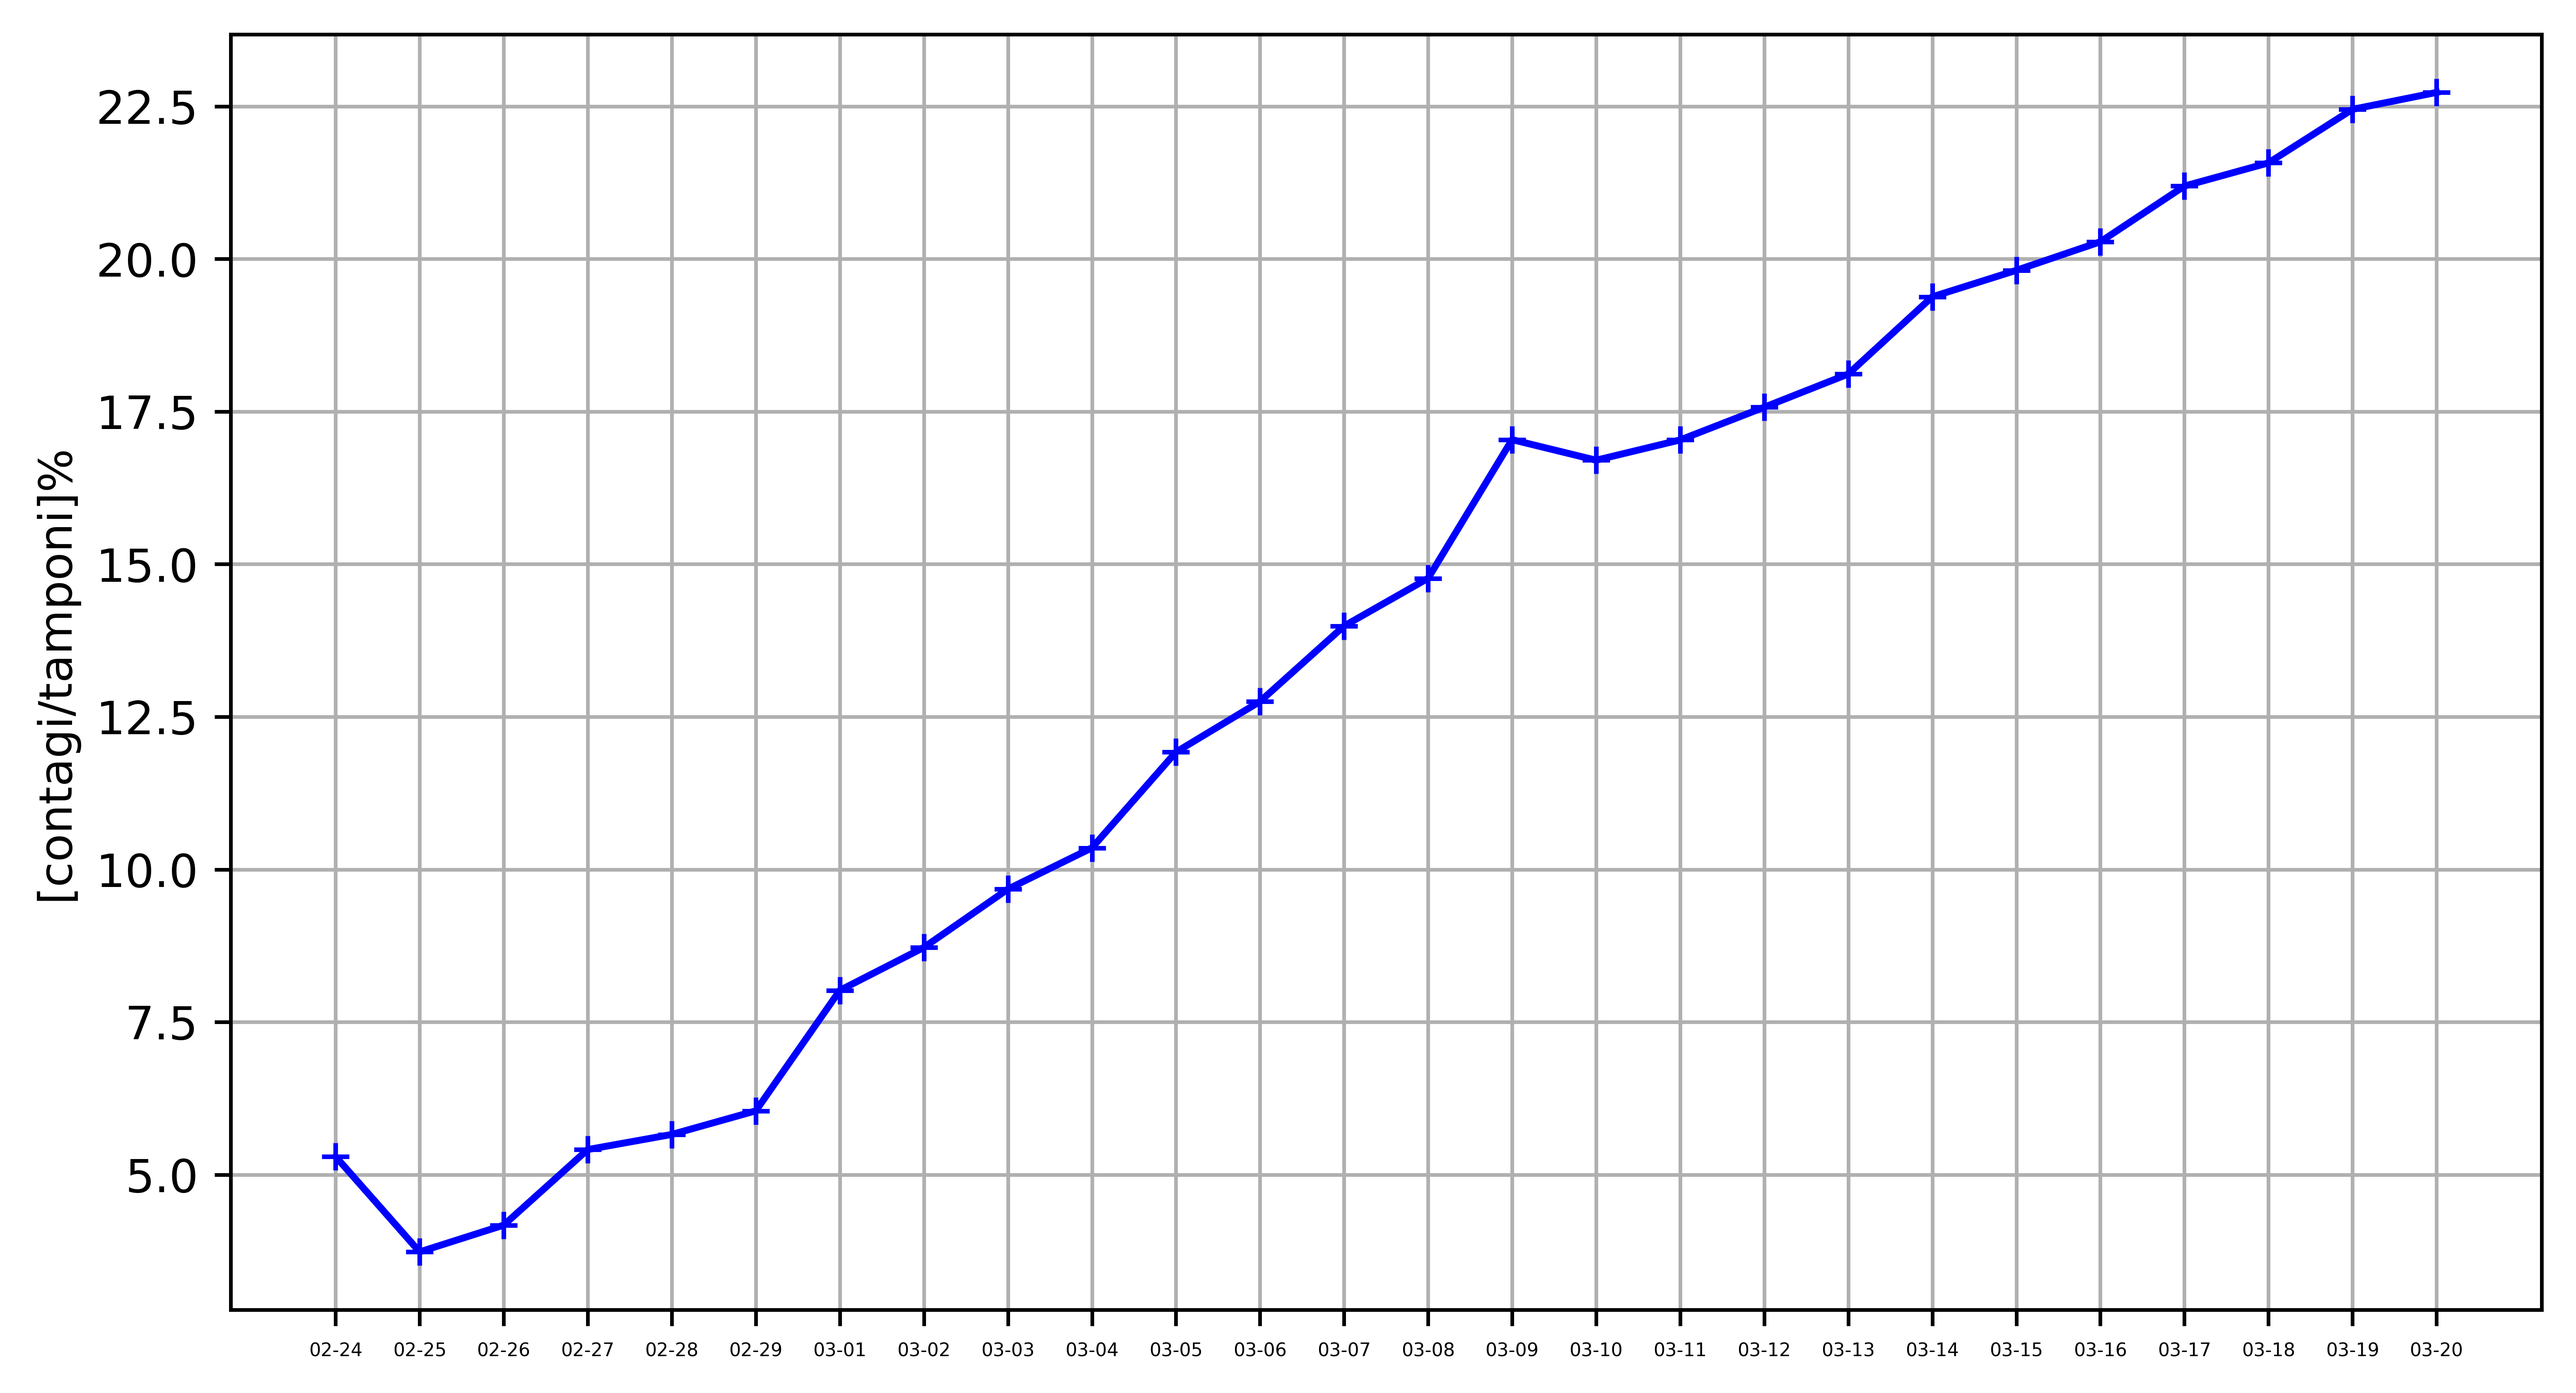
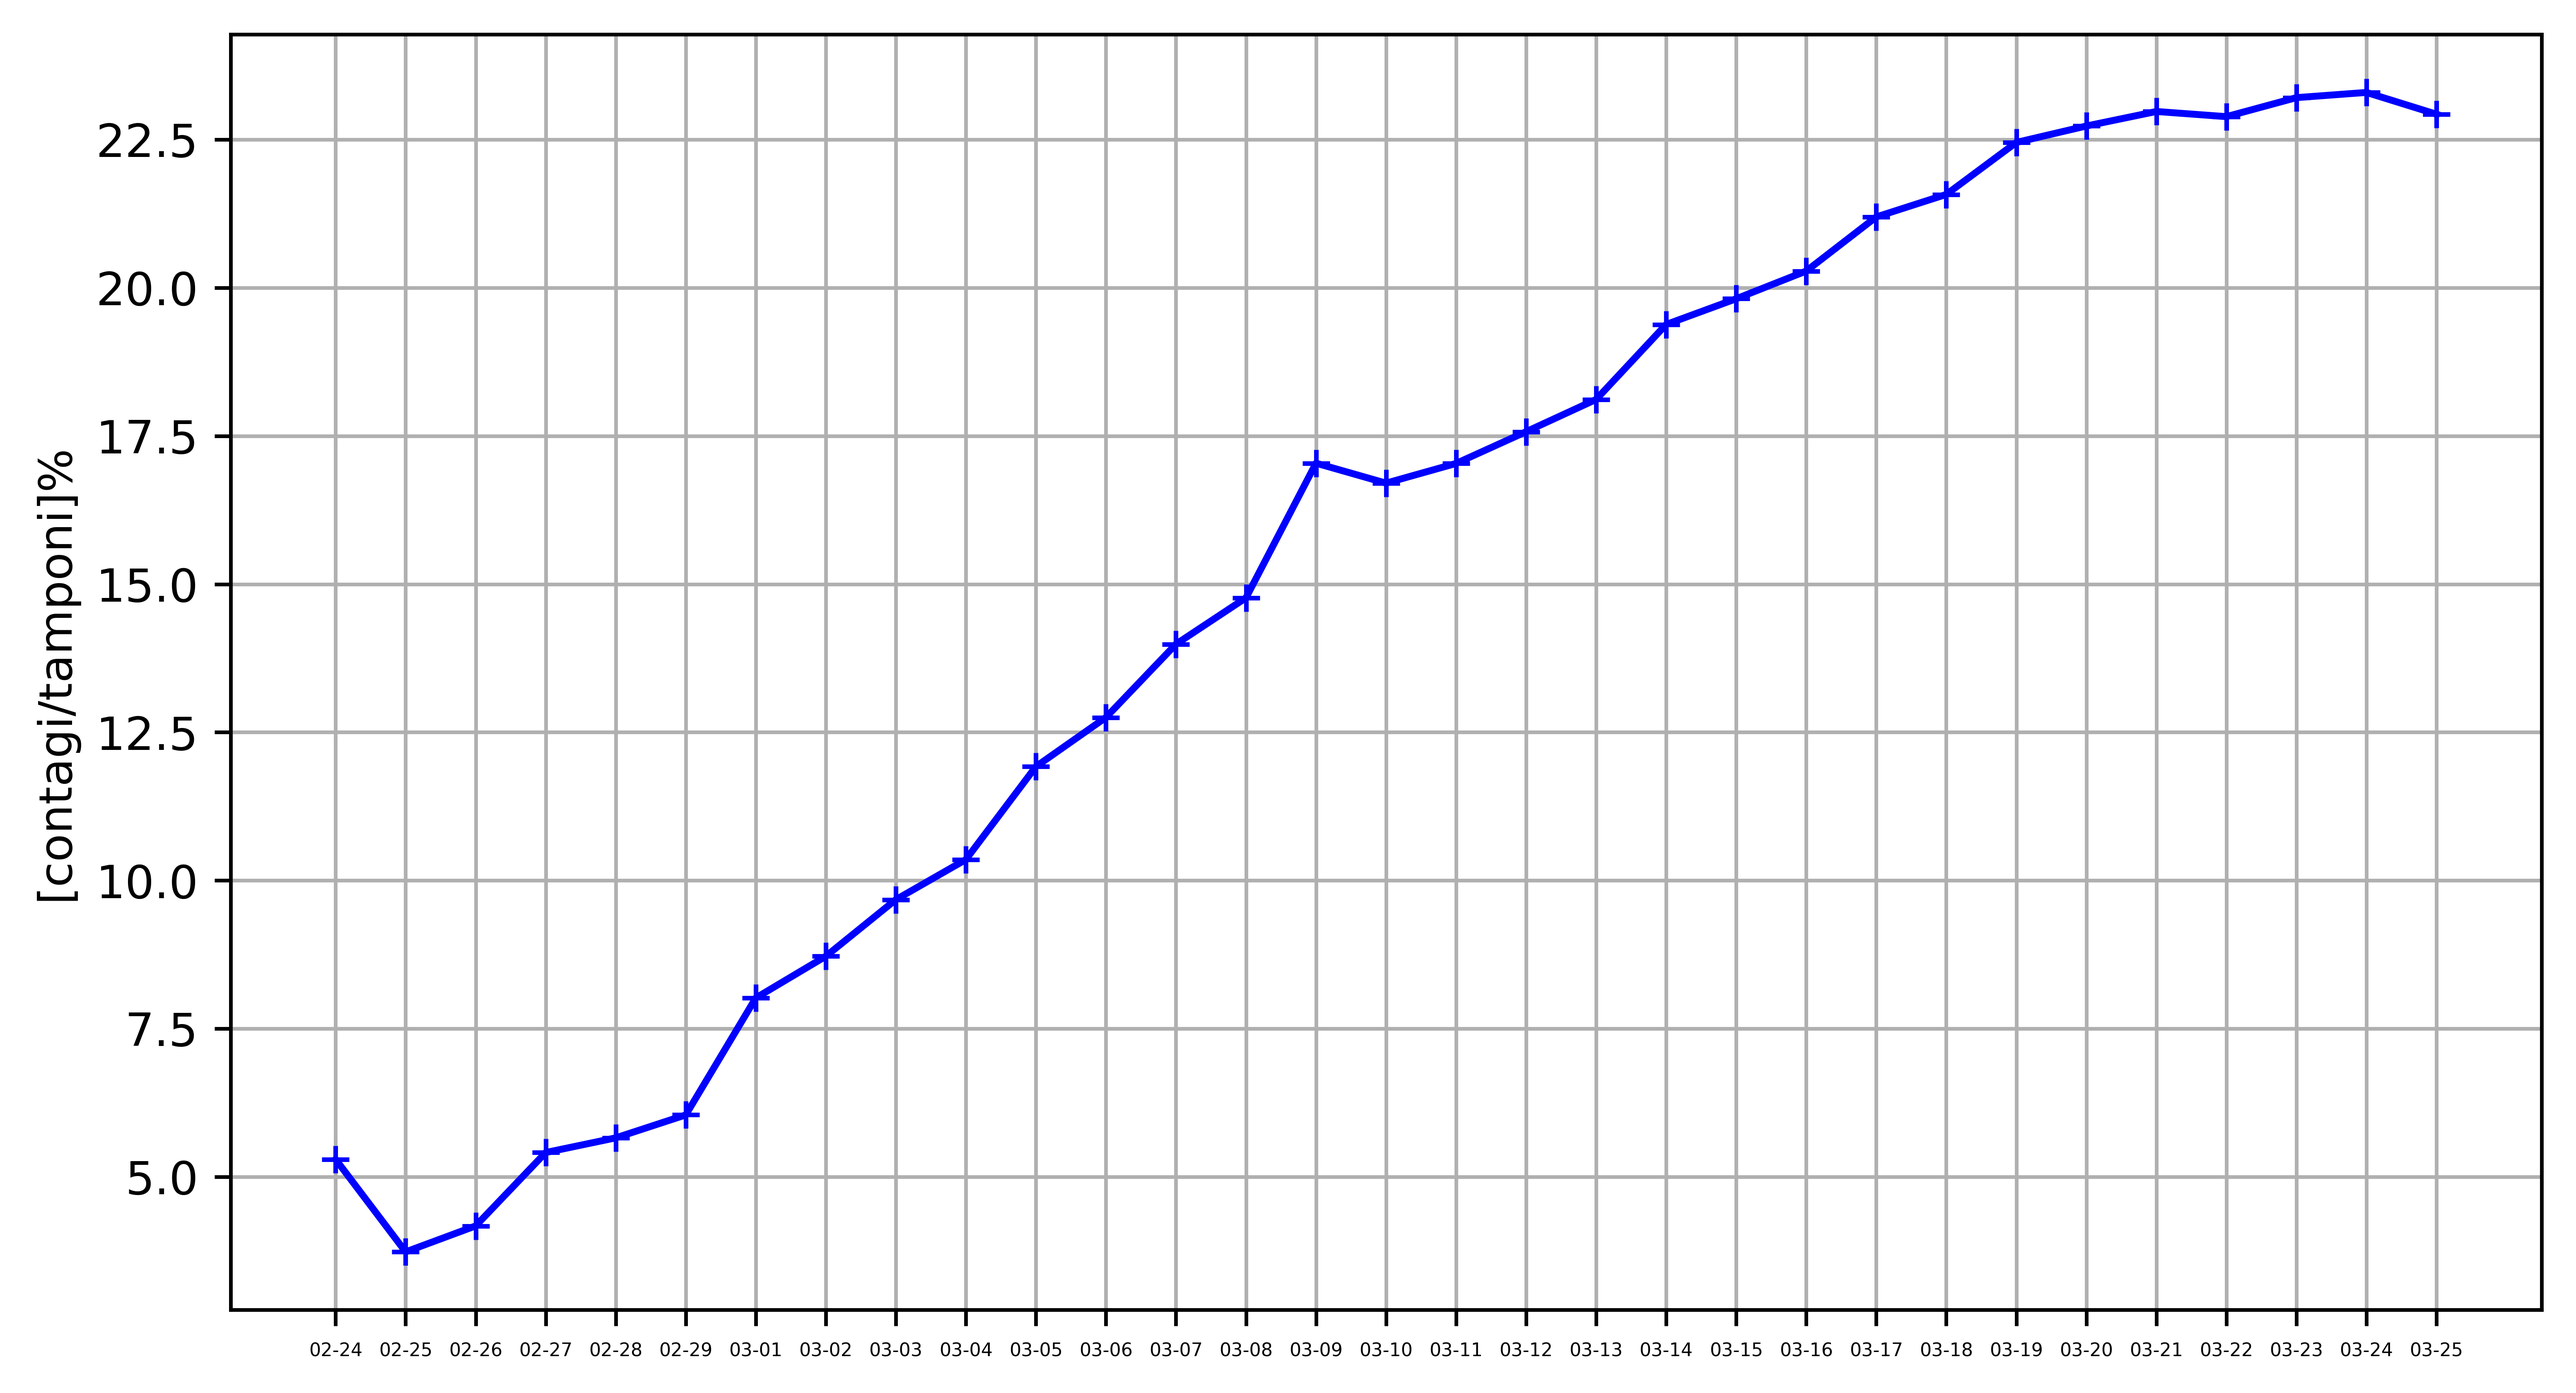
refactoring

diff --git a/run.py b/run.py
@@ -24,6 +24,15 @@ def send():
         v = 0.0
         v = (i["totale_casi"] / i["tamponi"]) * 100
         results.append(v)
+
+    '''vv = (63927/275468)*100
+    results.append(vv)
+    days.append("03-23")
+
+    vv1 = (69176/296964)*100
+    results.append(vv1)
+    days.append("03-24")
+    '''
     
 
     plt.rcParams.update({'xtick.labelsize': 4})
@@ -45,22 +54,9 @@ def send():
     bot.sendImage(token, channel, today_contagi, today_tamponi)   
     
     return
-'''
+
 schedule.every().day.at("18:30").do(send)
 
 while True:
     schedule.run_pending()
     time.sleep(60)
-'''
-send()
-
-    
-
-
-
-
-
-        
-    
-    
-    
